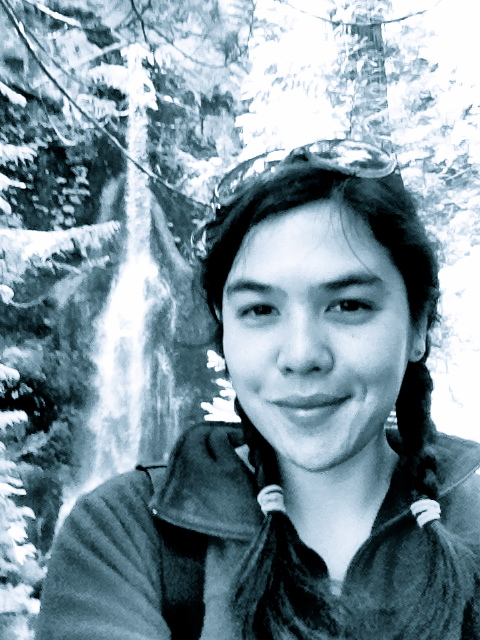
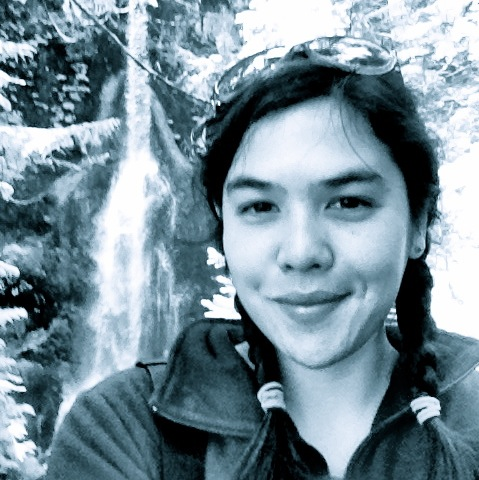
cropped photo 400x400

diff --git a/stylesheets/styles.css b/stylesheets/styles.css
@@ -1,11 +1,11 @@
 @import url(https://fonts.googleapis.com/css?family=Lato:300italic,700italic,300,700);
 
 .circular {
-  width: 240px;
-  height: 320px;
-  border-radius: 125px;
-  -webkit-border-radius: 125px;
-  -moz-border-radius: 125px;
+  width: 400px;
+  height: 400px;
+  border-radius: 200px;
+  -webkit-border-radius: 200px;
+  -moz-border-radius: 200px;
    box-shadow: 0 0 8px rgba(0, 0, 0, .8);
   -webkit-box-shadow: 0 0 8px rgba(0, 0, 0, .8);
   -moz-box-shadow: 0 0 8px rgba(0, 0, 0, .8);
